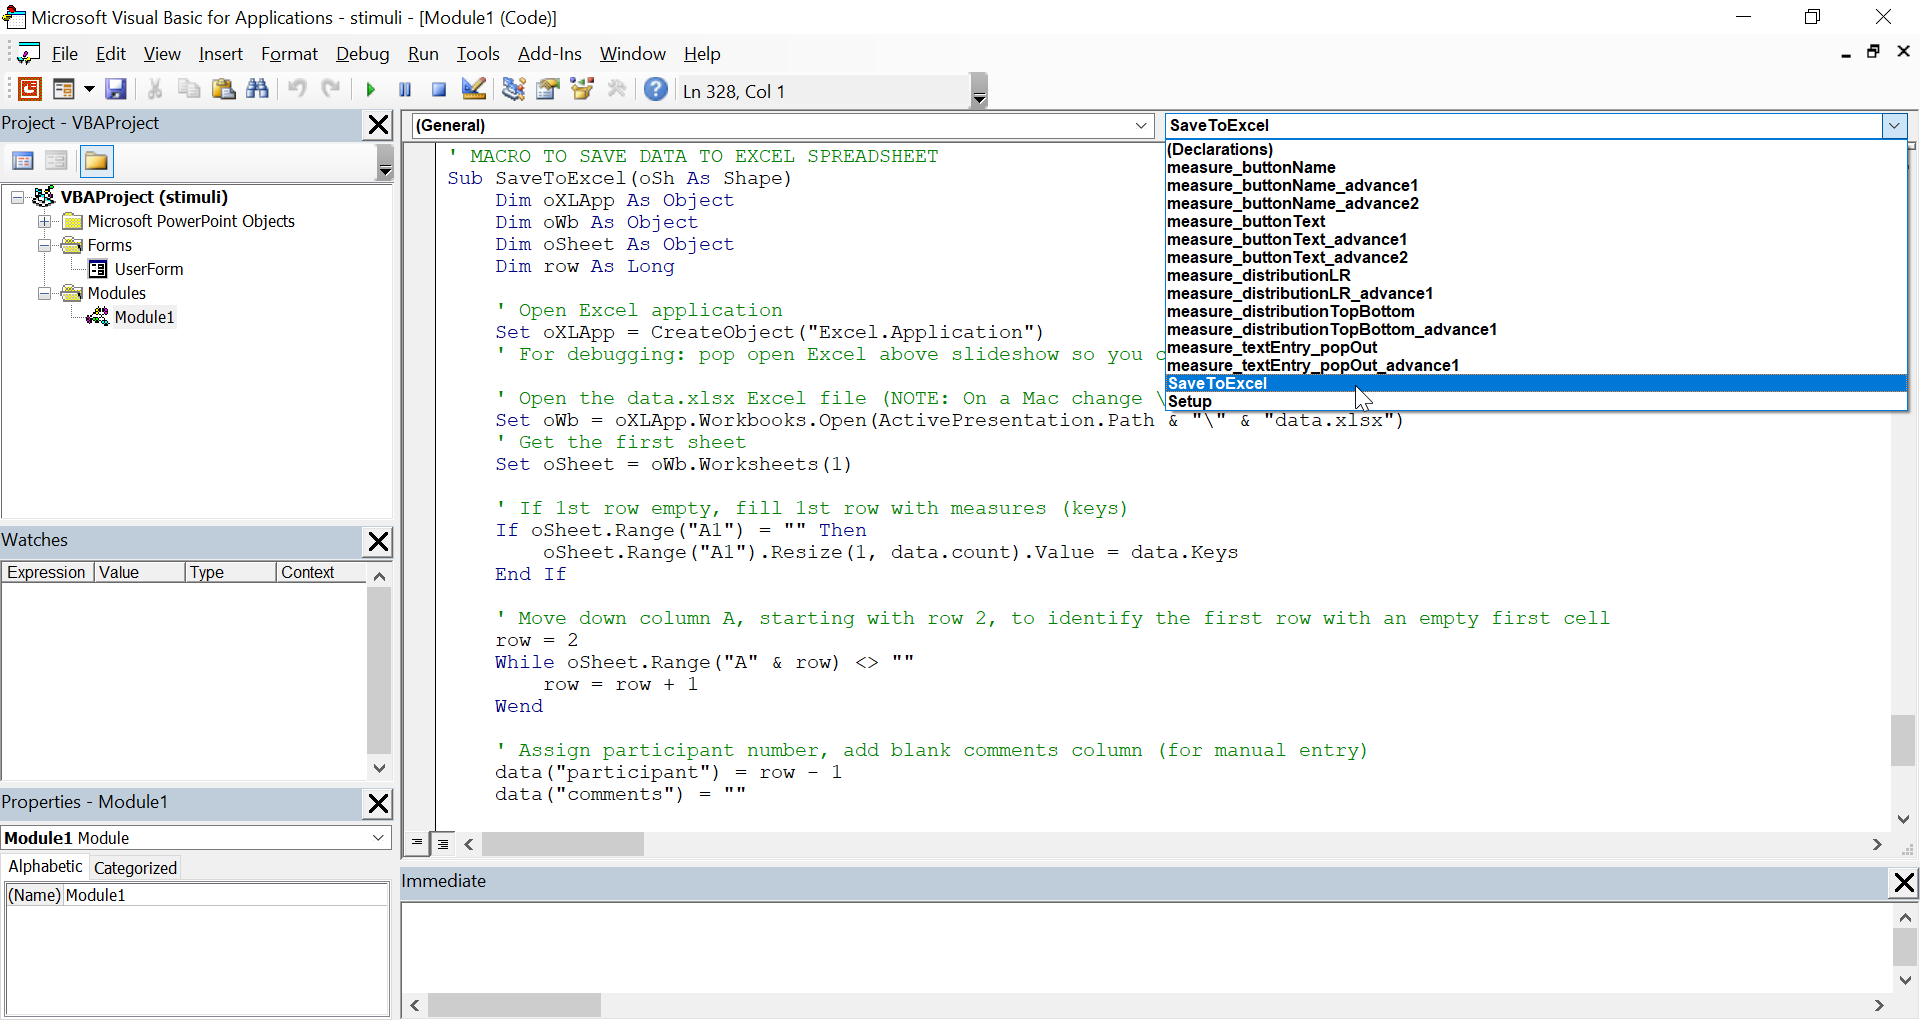
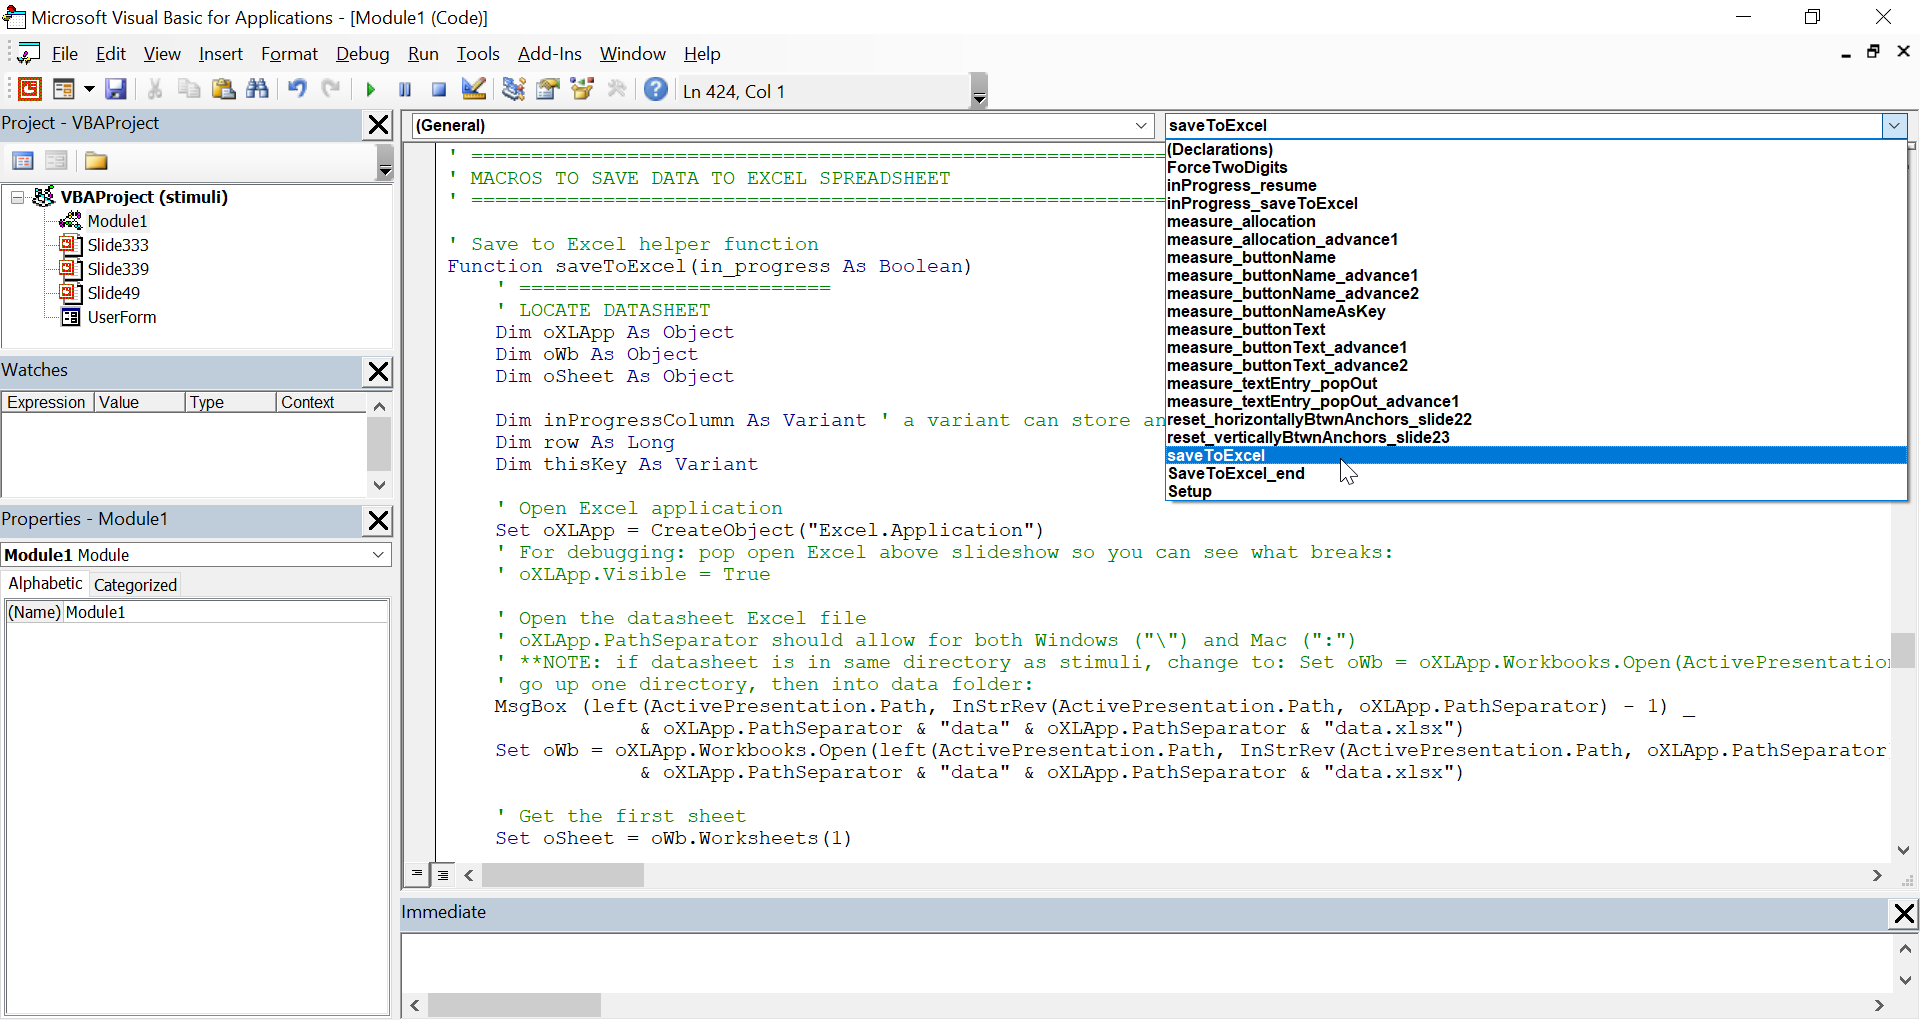
update readme screenshots

diff --git a/readme.md b/readme.md
@@ -1,23 +1,23 @@
 # About this code
-The purpose of this code is to automatically code responses from running children live using PowerPoint stimuli to a long format Excel datasheet. This code was written in Visual Basic ("VBA") for PowerPoint on Windows in Dec 2020, but should work for PowerPoint on Mac (not tested, but should work). I'm not sure if there's anything like this for Keynote.
+The purpose of this code is to automatically code responses from running children live using PowerPoint stimuli to an Excel datasheet (in long format, rather than tidy format). This code was written in Visual Basic ("VBA") for PowerPoint on Windows in December 2020, but should work for PowerPoint on Mac (not tested, but should work). I'm not sure if there's anything like this for Keynote.
 
 The template slides (`stimuli.pptm`) are adapted from the [online testing slides from Stanford's Social Learning Lab](http://github.com/sociallearninglab/online_testing_materials), and are designed for use by researchers who run live testing sessions by sharing a PowerPoint slideshow on Zoom.
 
-There is [an hour long basic video demo of this code](https://stanford.zoom.us/rec/share/vdNnPylMm5UP4nQPozZBKW5riLCHA2-70kaw1uvOUkWbNCb6pE-Ob86nrFj5__lm.3sALdzZfGmAkHRZ4?startTime=1610750420000) (recorded January 15, 2021) available, although this readme goes in more depth and is more up-to-date than the video demo. Apologies for the screen share difficulties in the demo! 
+There is [an hour long basic video demo of this code](https://stanford.zoom.us/rec/share/vdNnPylMm5UP4nQPozZBKW5riLCHA2-70kaw1uvOUkWbNCb6pE-Ob86nrFj5__lm.3sALdzZfGmAkHRZ4?startTime=1610750420000) (recorded January 15, 2021) available, although this readme goes in more depth and is more up-to-date than the video demo. Apologies for the screen share difficulties in the demo!
 
 ## Why run children live using PowerPoint
-PowerPoint allows researchers to easily present their studies in a rich and engaging format. PowerPoint supports simple animations and sounds that make the experience much more dynamic and engaging, as opposed to filling out a static Qualtrics survey together. Increased engagement can not only benefit data quality for that study, but also creates a more positive and fun experience that incentivizes parents/guardians and children to return for future studies.
+Microsoft PowerPoint allows researchers to easily present their studies in a rich and engaging format. PowerPoint supports simple animations and sounds that make the experience much more dynamic and engaging, as opposed to filling out a static [Qualtrics](https://www.qualtrics.com/) survey together. **Increased engagement can not only benefit data quality for that study, but also creates a more positive and fun experience that incentivizes parents/guardians and children to return for future studies.**
 
-PowerPoint is simple and easy for researchers to use, and many researchers have experience using PowerPoint already, as opposed to specialized animation software like Blender. Simple but engaging animations can be created using the "Morph" transition between slides (equivalent to Keynote "Magic Move"), or slide animations such as pulse and motion path animations.
+PowerPoint is **simple and easy for researchers to use**, and many researchers have experience using PowerPoint already, as opposed to specialized animation software like Blender. Simple but engaging animations can be created using the ["Morph" transition between slides](https://support.microsoft.com/en-us/office/use-the-morph-transition-in-powerpoint-8dd1c7b2-b935-44f5-a74c-741d8d9244ea) (equivalent to Keynote "Magic Move"), or slide animations such as pulse and motion path animations.
 
-A major drawback of using PowerPoint has been that participant responses are not automatically coded during the session (as they are when using a Qualtrics survey), so session must be recorded and a researcher must watch the recording after the fact to code participant responses. This code addresses that drawback by automatically coding responses during the session, which saves researcher time and increases coding reliability.
+A major drawback of using PowerPoint has been that participant responses are not automatically coded during the session (as they are when using a Qualtrics survey), so session must be recorded and a researcher must watch the recording after the fact to code participant responses. This code addresses that drawback by automatically coding responses during the session, which **saves researcher time and increases coding reliability**.
 
 ## How this code works
 This code works by creating a [**scripting dictionary**](https://docs.microsoft.com/en-us/office/vba/language/reference/user-interface-help/dictionary-object) called **`data`**, which contains *pairs* of keys and items:
-1. **`keys`**: column/measure names (e.g. "condition", "measure1", "measure2")
-2. **`items`**: this participant's response (e.g. "structural", "yes", "blue")
+1. **`keys`**: equivalent to column names in the datasheet (e.g. "condition", "measure1", "measure2")
+2. **`items`**: this participant's response for that key (e.g. "structural", "yes", "blue")
 
-These `key`-`item` pairs are generated by a variety of macros, which can linked to shapes in PowerPoint so the macros run when the shape is clicked. Most of these macros take `keys` (column/measure names) from the *slide titles* (as seen in View > Outline View). Here are the currently available macros:
+These `key`-`item` pairs are generated by a variety of macros. Macros can be activated by linking them to shapes in PowerPoint, so a specified macro runs when a shape is clicked. Most of the currently available macros take `keys` (column/measure names) from the *slide titles* (as seen in View > Outline View). Here are the currently available macros:
 - **`measure_buttonName`**: **the main workhorse**. Takes the name of the button clicked (as seen in Home > Select > Selection Pane) as the response.
 - `measure_buttonText`: Takes the text within the button clicked as the response. More limited use cases than measure_buttonName, but works if you're too lazy to rename all your objects and your objects are textboxes containing response text anyway.
 - `measure_buttonNameAsKey`: Unlike the other macros, this macro takes the name of the button clicked as the `key`. It records "clicked" as the response. Used in situations where you have a variety of objects on a slide and you want to record which/how many are clicked.
@@ -45,7 +45,8 @@ Most of the above macros have different versions depending on how you want to ad
 - `_advance2`: Advances 2 slides. Useful for jumping slides during 2-step contingent measures.
 
 2 important macros everyone will need to use:
-- `Setup`: Initializes `data`, sets the session as "in progress", collects some setup info via a UserForm. Customize this macro's associated UserForm based on your study specifics and what setup info you want researchers to input. `Setup` also writes setup info to Excel by calling `inProgress_SaveToExcel`, so you can setup and quit slideshow if you'd like before your participant arrives.
+- `Setup`: Initializes `data`, collects some setup info via a UserForm, sets "in_progress" as "yes", and writes setup info to Excel by calling `inProgress_SaveToExcel`, so you can setup and quit slideshow if you'd like before your participant arrives.
+  - Customize this macro's associated UserForm based on your study specifics and what setup info you want researchers to input.
 - `SaveToExcel_end`: Calls the function `SaveToExcel`, which saves the scripting dictionary `data` to the Excel datasheet `data.xlsx` by:
   - Finding the datasheet `data.xlsx`.
   - If header row is empty, assigns the `key`s in the order they were collected.
@@ -55,7 +56,7 @@ Most of the above macros have different versions depending on how you want to ad
   - Sets "in_progress" to "no".
 
 A pair of macros that allow exiting and resuming slideshow during a single participant's session:
-- `inProgress_SaveToExcel`: Just like `SaveToExcel_end`, it calls the function `SaveToExcel`, except it keeps "in_progress" as "yes", which allows subsequent macros to continue writing on the same row. Should be used immediately before exiting an in progress slideshow. Can be used multiple times throughout a study.
+- `inProgress_SaveToExcel`: Just like `SaveToExcel_end`, it calls the function `SaveToExcel`, except it sets "in_progress" as "yes", which allows subsequent macros to continue writing on the same row. Can be used multiple times throughout a study at any point, and should definitely be used before exiting an in progress slideshow.
 - `inProgress_resume`: Re-initializes the `data` dictionary. Should be used immediately after resuming an in progress slideshow. Can be used multiple times throughout a study.
 
 Helper macros to reset target objects on slides (designed for resource allocation using `measure_allocation`). *Note that which slide should be reset must be manually specified.*
@@ -80,7 +81,10 @@ Helper macros to reset target objects on slides (designed for resource allocatio
   - If you are using `measure_allocation` and its `reset` helper functions:
     - Objects that will be moved/counted should have names containing "target" (e.g. "target1"). The 2 objects (or groups of objects) that will be reference points for grouping should have names containing "anchor" (e.g. "measure9_lowPerf_anchor"). Note that if you name a group "target" or "anchor", do not also name each sub-object "target" or "anchor".
     - Your resource allocation slide should contain at least 3 buttons: `inProgress_SaveToExcel` (save before exiting slideshow), `inProgress_resume` (resume after restarting slideshow), and `measure_allocation` (count the allocation). You should also include the corresponding `reset` somewhere at the end so you can reset the target objects for the next participant, and can also include `reset` on the same allocation slide if participant wants to re-do the allocation. I recommend hiding all these buttons under wherever your video thumbnail will be to reduce visual clutter for the participant.
-3. **Add the Developer menu to your PowerPoint ribbon**. Home > Options > Customize Ribbon > scroll down the right-hand column and check "Developer". Go to the new Developer menu > click "Macro Security" to **make sure macros are enabled** (they are usually disabled by default for security reasons).
+3. **Add the Developer menu to your PowerPoint ribbon, and make sure macros are enabled**. At the top, File > Options > Customize Ribbon > scroll down the right-hand column and check "Developer". Go to the new Developer menu > click "Macro Security" > "Enable all macros" (they are usually disabled by default for security reasons).
+![Customize Ribbon menu. On the right-hand column, Developer is checked.](/readme_images/enableDeveloper.png)
+_Enabling the Developer menu._ Check "Developer" on the right-hand column.
+
 4. **Add *titles* to each slide where macros might collect slide titles**. Many macros (notably collect slide titles as a `key`, which will be the name of its column in `data.xlsx`. View > Outline View to check the titles of all your slides. If your slide lacks a title, double-click it in Outline View to add a title (ok to drag the resulting Title textbox off-screen, but a Title textbox *must* be present in Selection Pane). If you have a pre-existing header row in `data.xlsx`, be sure that your slide titles match the *exact* text in the header row, so `SaveToExcel` can appropriately assign participants' responses. Note: two slides can have the same title, but note that clicking macros on either slide will write to the same column, so only do this if you're okay overwriting responses or if participants will only responding on one of the slides (eg the 2nd step of a 2 step measure).
 5. **If you are using the `measure_buttonName` series of macros, set object names** in PowerPoint via Selection Pane: Home > Editing > Select > Selection Pane. Double click an object in the Selection Pane to edit its name.
 
@@ -93,23 +97,27 @@ _A typical slide._ It has a Title, here just off-screen (`measure2`), that gives
 
 _Linking a macro._ Here the object is linked to the `measure_buttonName_advance1` macro. Note the "Play sound" option if you'd like to play a sound, in addition to running the macro, when the object is clicked.
 
-7. **Open VBA** (Developer menu > Visual Basic).  Click Tools at the top > References > make sure "Microsoft Scripting Runtime" is checked. (Dictionaries are not native to VBA, so this makes sure VBA can reference its home environment, Microsoft Scripting Runtime.)
+7. **Open VBA, and enable Microsoft Scripting Runtime reference.** Open VBA by going to Developer menu > Visual Basic. In VBA, click Tools > References > make sure "Microsoft Scripting Runtime" is checked. (Dictionaries are not native to VBA, so this makes sure VBA can reference its home environment, Microsoft Scripting Runtime.)
+
+![VBA references menu, with Microsoft Scripting Runtime checked.](/readme_images/VBA_MicrosoftScriptingRuntime.png)
+_Enabling Microsoft Scripting Runtime reference._ Make sure Microsoft Scripting Runtime is checked.
+
 8. **Customize the main code as desired**. Go over to the left-hand Project Explorer sidebar. (If you don't see it, Ctrl + R, or View > Project Explorer). Click `Module1` to bring up the main code.
   - Customize the "file" text in the `SaveToExcel` function.
   - If you changed the `data.xlsx` name or directory, edit the `data.xlsx` filepath in the `SaveToExcel` helper function.
   - If you are using `reset` macros, manually specify which slide must be reset, since slide reference in this macro is currently hard coded.
 
 ![View in VBA looking at Module 1, with SaveToExcel macro selected](/readme_images/VBA.png)
-_A typical view in VBA._ Here we are in the code for `Module 1`, specifically the `SaveToExcel` macro. Note that the Project Manager sidebar is at the top left.
+_A typical view in VBA._ Here we are in the code for `Module1`, specifically the `SaveToExcel` helper function. Note that the Project Manager sidebar is at the top left.
 
 9. **Customize the setup userform**. Go to the left-hand Project Manager sidebar, and click `UserForm`.
 
 - Right-click `UserForm` > View Object to [edit the fields and aesthetics of the form](https://docs.microsoft.com/en-us/office/vba/powerpoint/how-to/create-custom-dialog-boxes). View > Toolbox to insert new fields: `TextBox` accepts any value, `ListBox` requires selecting from pre-specified values, `ComboBox` suggests pre-specified values but accepts other values too. Click on a field to see/edit its name on the sidebar; you will need to know its name to reference its value in the form code.
 
-- Right-click `UserForm` > View Code to edit the code behind the form, including how the values from each form field are saved to the `data` dictionary.
-
 ![View in VBA looking at the UserForm object](/readme_images/VBA_UserForm_object.png)
-_Viewing the UserForm object._ Here we are looking at the `UserForm` object, and can move around the fields, change how the fields look, and change how the form generally looks. At right we have the Toolbox, with which we can add new fields (View > Toolbox if you can't see the Toolbox menu). At bottom left we have the Properties menu, where we can see that `condition` is a `ListBox` object (`ListBox` only accepts specified values).
+_Viewing the UserForm object._ Here we are looking at the `UserForm` object, and can move around the fields, change how the fields look, and change how the form generally looks. At bottom we have the Toolbox, with which we can add new textboxes or fields (View > Toolbox if you can't see the Toolbox menu). At bottom left is the Properties menu, where we can see that the selected field is a `ListBox` object (`ListBox` only accepts specified values) named `condition`.
+
+- Right-click `UserForm` > View Code to edit the code behind the form, including how the values from each form field are saved to the `data` dictionary.
 
 ![View in VBA looking at the UserForm code](/readme_images/VBA_UserForm_code.png)
 _Viewing the UserForm code._ Here we are looking at the `UserForm` code, specifically how the UserForm is initialized. Note that the form field `condition` is initialized with specified values for `condition` ("condition1", "condition2", and "condition3") that users can choose from.
@@ -118,9 +126,9 @@ _Viewing the UserForm code._ Here we are looking at the `UserForm` code, specifi
 - **Make sure `data.xlsx`, the Excel data sheet, is closed** so PowerPoint can edit it.
 - **Click "Setup" to fill out the setup form before the participant arrives**.
   - It's recommended to fill out the setup form before the participant arrives, so the participant/guardian are blind to condition. You may exit slideshow after completing the setup form, because `Setup` will save everything to Excel (using `inProgress_SaveToExcel`). When the participant arrives and you restart the slideshow, be sure to click "resume" (`inProgress_resume`) to pick up from where you left off.
-  - Alternatively, you can fill out the form with the participant present, but be aware that the participant/guardian may not be blind to condition if they see you filling out the form. Click "pause share" in Zoom to freeze the screen share, click "Setup" to fill out the form, and then click "resume share" once you're done with the form. The participant will see a frozen screen while you're filling it out.
+  - Alternatively, you can fill out the form with the participant present, but be aware that the participant/guardian may not be blind to condition if they see you filling out the form. Click "pause share" in Zoom to freeze the screen share, click "Setup" to fill out the form, and then click "resume share" in Zoom once you're done with the form. The participant will see a frozen screen while you're filling it out.
 - If you use 2 monitors and see your slideshow on both (e.g. sharing slides, not sharing presenter view), pop-ups will appear on whichever window you click the button. So if you click pop-up buttons like "Setup" on the non-shared screen, pop-up will appear on non-shared screen.
-- You can run your slides and click macros in any order or number of times. Note that clicking macros(s) on the same slide (or different slides with the same Title) multiple times will overwrite the same item in `data`, since they share the same `key` (slide title). The *last* pressed macro will store the final response.
+- You can run your slides and click macros in any order or number of times. Note that if you try to write to the same `key` multiple times, the *last* written response will be the final response.
 - **`data` will be lost if you exit slideshow before running a `SaveToExcel` macro**.
   - To jump between *slides* without exiting slideshow, right-click anywhere on the slide in slideshow > See all slides > select a slide.
   - To switch between *windows* without exiting slideshow, tab out of slideshow using `Alt + Tab` on Windows or `Cmd + Tab` on Mac, or try swiping left or right on your mousepad with 3 fingers.
@@ -137,9 +145,9 @@ Tips for editing in VBA:
 - Check your types. `Variant` can helpfully take on a variety of types, including an error (which can be checked using `IsError()`). Other types will generally crash if you feed them an error. `CStr()` coerces non-`String` types into a `String`, and [here are some other coersion functions](https://docs.microsoft.com/en-us/office/vba/language/concepts/getting-started/type-conversion-functions).
 - Be aware that objects (annoyingly) vary in whether they are 0-indexed (1st item is in position 0) or 1-indexed (1st item is in position 1). Arrays are by default 0-indexed, although you can set the starting index to be something else. Strings and collections are 1-indexed.
 - Useful functions for dealing with the `data` dictionary:
-  - `data(key) = item` stores the item under the key. If the key already exists, the previous item is overwritten. If the key did not exist, it will create a new pair.
+  - `data(key) = item` stores the item under "key". If the key already exists, the previous item is overwritten. If the key did not exist, it will create a new pair.
   - `data(key)` calls the item stored under the key.
-  - `data.Keys` calls all the keys, and `data.Items` calls all the items. Note that these functions return arrays, which are 0-indexed in VBA, so `data.Items(0)` calls the 1st item, `data.Items(1)` the 2nd, and so forth.
+  - `data.Keys` calls all the keys, and `data.Items` calls all the items. Note: these functions return arrays, which are 0-indexed in VBA, so `data.Items(0)` calls the 1st item, `data.Items(1)` the 2nd, and so forth.
 - Remember to end your loops with the corresponding `End` (e.g. an `If` requires an `End If`).
 
 - VBA does not automatically wrap your code. Add ` _ ` (space _ space) at the end of a line to continue code on the next line. Or write your code in a code editor like [Atom](https://atom.io/) (Atom: File > Settings > Packages > install `language-vba` for VBA syntax highlighting).
